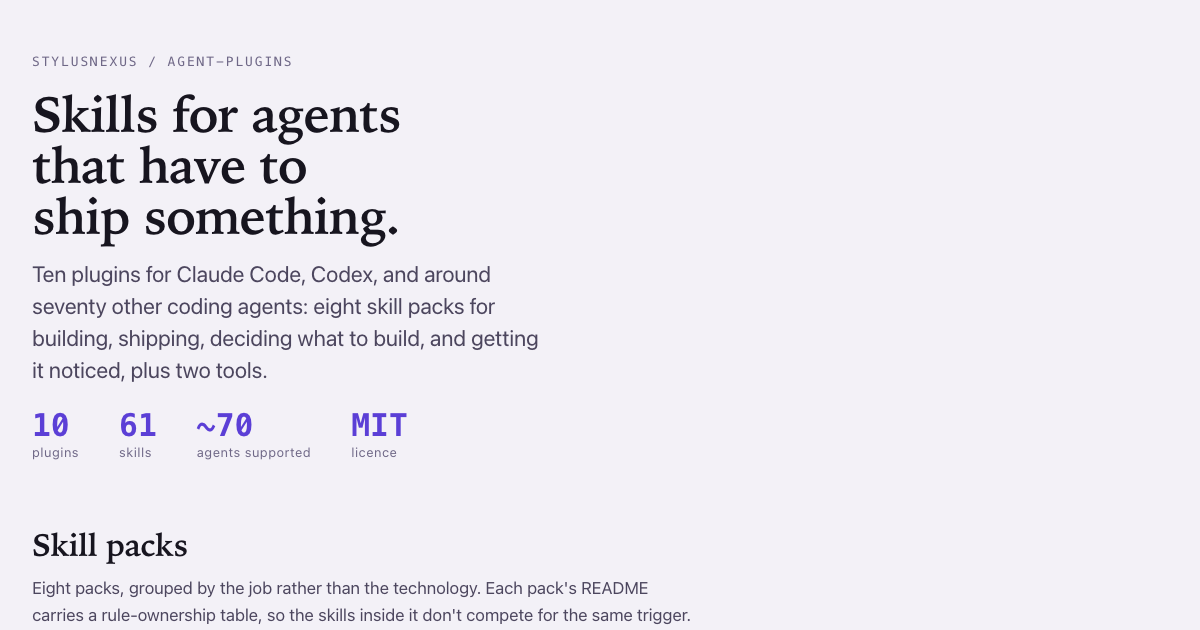
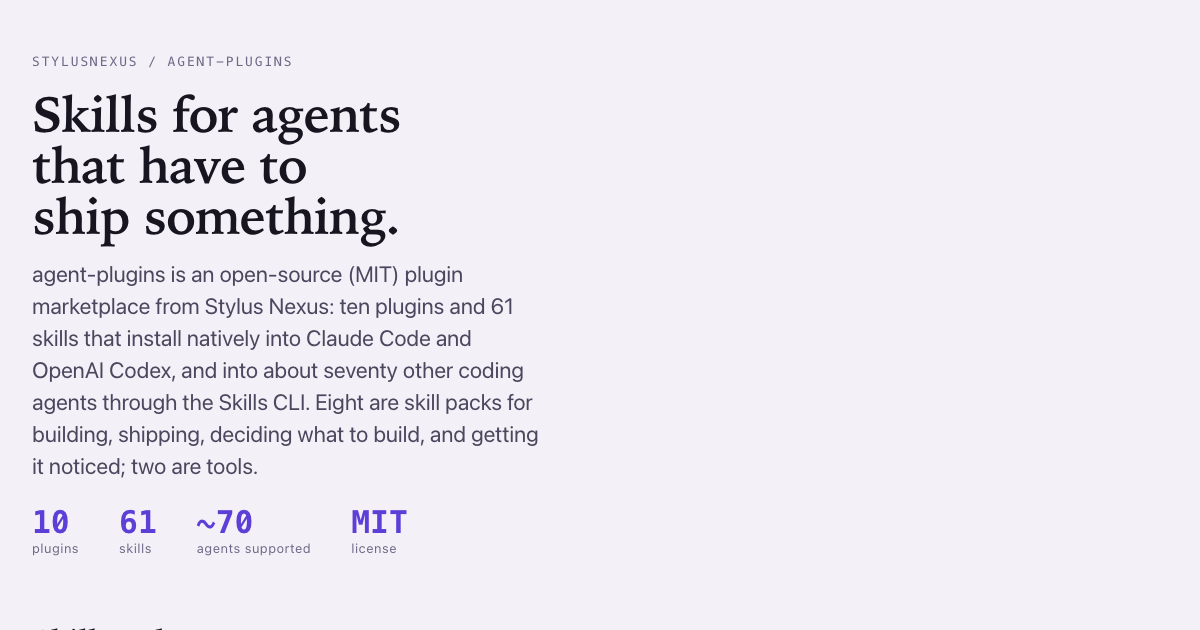
feat(site): apply search and AI-answer review
AI answers quote the first sentence that names a thing, and the page
never named agent-plugins. The lede now does, pack names are linked
headings, install headings are distinct, and a Questions section gives
self-contained answers. JSON-LD lists every pack with breadcrumb and
FAQ entries; llms.txt links each pack README.

The Pages actions move to their current majors. The private-terms
check now also scans the root README and site/ against the private
list, since both are public.

Claude-Session: https://claude.ai/code/session_01FqTSev7LyLprLNwPfVfQA8

Changed region(s): [[0.0308, 0.4222, 0.4625, 0.754], [0.0308, 0.8143, 0.5858, 1.0], [0.2775, 0.7841, 0.3392, 0.8746]]

diff --git a/site/index.html b/site/index.html
@@ -15,30 +15,177 @@
   <meta property="og:image:type" content="image/png">
   <meta property="og:image:width" content="1200">
   <meta property="og:image:height" content="630">
-  <meta property="og:image:alt" content="The agent-plugins catalogue: ten plugins, 61 skills, and cards for each skill pack.">
+  <meta property="og:image:alt" content="The agent-plugins catalogue: skill-pack cards for Claude Code, Codex, and other coding agents.">
   <meta property="og:locale" content="en_US">
   <meta name="twitter:card" content="summary_large_image">
   <meta name="twitter:title" content="Agent Plugins: Skill Packs for Claude Code and Codex">
   <meta name="twitter:description" content="Skill packs for Claude Code, Codex, and about 70 other coding agents: shipping, reviews, hardening, releases, product strategy, and go-to-market. MIT.">
   <meta name="twitter:image" content="https://stylusnexus.github.io/agent-plugins/img/social.png">
-  <meta name="twitter:image:alt" content="The agent-plugins catalogue: ten plugins, 61 skills, and cards for each skill pack.">
+  <meta name="twitter:image:alt" content="The agent-plugins catalogue: skill-pack cards for Claude Code, Codex, and other coding agents.">
+  <meta name="theme-color" content="#f3f1f7" media="(prefers-color-scheme: light)">
+  <meta name="theme-color" content="#100e16" media="(prefers-color-scheme: dark)">
   <link rel="icon" href="https://stylusnexus.github.io/favicon.ico">
   <link rel="apple-touch-icon" href="https://stylusnexus.github.io/apple-touch-icon.png">
   <script type="application/ld+json">
 {
   "@context": "https://schema.org",
-  "@type": "SoftwareSourceCode",
-  "name": "agent-plugins",
-  "url": "https://stylusnexus.github.io/agent-plugins/",
-  "codeRepository": "https://github.com/stylusnexus/agent-plugins",
-  "description": "Skill packs for Claude Code, Codex, and about 70 other coding agents: shipping, reviews, hardening, releases, product strategy, and go-to-market. MIT.",
-  "license": "https://opensource.org/licenses/MIT",
-  "programmingLanguage": "Markdown",
-  "publisher": {
-    "@type": "Organization",
-    "name": "Stylus Nexus",
-    "url": "https://stylusnexus.github.io/"
-  }
+  "@graph": [
+    {
+      "@type": "SoftwareSourceCode",
+      "name": "agent-plugins",
+      "url": "https://stylusnexus.github.io/agent-plugins/",
+      "codeRepository": "https://github.com/stylusnexus/agent-plugins",
+      "description": "Skill packs for Claude Code, Codex, and about 70 other coding agents: shipping, reviews, hardening, releases, product strategy, and go-to-market. MIT.",
+      "license": "https://opensource.org/licenses/MIT",
+      "isAccessibleForFree": true,
+      "keywords": "Claude Code plugins, Codex plugins, agent skills, skill packs, Skills CLI",
+      "sameAs": [
+        "https://www.npmjs.com/package/@stylusnexus/agent-plugins"
+      ],
+      "author": {
+        "@type": "Organization",
+        "name": "Stylus Nexus",
+        "url": "https://stylusnexus.github.io/"
+      },
+      "publisher": {
+        "@type": "Organization",
+        "name": "Stylus Nexus",
+        "url": "https://stylusnexus.github.io/"
+      },
+      "hasPart": {
+        "@type": "ItemList",
+        "name": "Skill packs",
+        "itemListElement": [
+          {
+            "@type": "ListItem",
+            "position": 1,
+            "name": "ship-pipeline",
+            "url": "https://github.com/stylusnexus/agent-plugins/tree/main/plugins/ship-pipeline",
+            "description": "The daily loop: read the issue, ground assumptions in the live database, prove it works, then review, merge, and promote. One issue or a batch."
+          },
+          {
+            "@type": "ListItem",
+            "position": 2,
+            "name": "reporting-comms",
+            "url": "https://github.com/stylusnexus/agent-plugins/tree/main/plugins/reporting-comms",
+            "description": "The last mile: turning agent output into something a person wants to read, and getting their judgment back."
+          },
+          {
+            "@type": "ListItem",
+            "position": 3,
+            "name": "second-opinion",
+            "url": "https://github.com/stylusnexus/agent-plugins/tree/main/plugins/second-opinion",
+            "description": "Built on one premise: a single model's confident answer is not evidence. Councils, arbitration, and specs checked against the actual codebase."
+          },
+          {
+            "@type": "ListItem",
+            "position": 4,
+            "name": "hardening",
+            "url": "https://github.com/stylusnexus/agent-plugins/tree/main/plugins/hardening",
+            "description": "The unglamorous pre-launch gates: a missing rate limit, an unsigned webhook, a compromised transitive dependency."
+          },
+          {
+            "@type": "ListItem",
+            "position": 5,
+            "name": "release-ops",
+            "url": "https://github.com/stylusnexus/agent-plugins/tree/main/plugins/release-ops",
+            "description": "Deciding the version, waiting on CI, publishing, and keeping dependencies current between releases."
+          },
+          {
+            "@type": "ListItem",
+            "position": 6,
+            "name": "codebase-intel",
+            "url": "https://github.com/stylusnexus/agent-plugins/tree/main/plugins/codebase-intel",
+            "description": "Building an accurate picture of a codebase, and the libraries it leans on, before committing to a change."
+          },
+          {
+            "@type": "ListItem",
+            "position": 7,
+            "name": "product-strategy",
+            "url": "https://github.com/stylusnexus/agent-plugins/tree/main/plugins/product-strategy",
+            "description": "Deciding what to build and why: vision, strategy, value, objectives, roadmaps, and discovery. A chief PM that teaches as it goes and labels evidence apart from assumption."
+          },
+          {
+            "@type": "ListItem",
+            "position": 8,
+            "name": "go-to-market",
+            "url": "https://github.com/stylusnexus/agent-plugins/tree/main/plugins/go-to-market",
+            "description": "Getting a product noticed on a small team's hours: positioning, copy, launches, community, outreach, email, and measurement. It drafts; it never posts or sends for you."
+          }
+        ]
+      }
+    },
+    {
+      "@type": "BreadcrumbList",
+      "itemListElement": [
+        {
+          "@type": "ListItem",
+          "position": 1,
+          "name": "Stylus Nexus",
+          "item": "https://stylusnexus.github.io/"
+        },
+        {
+          "@type": "ListItem",
+          "position": 2,
+          "name": "agent-plugins",
+          "item": "https://stylusnexus.github.io/agent-plugins/"
+        }
+      ]
+    },
+    {
+      "@type": "FAQPage",
+      "mainEntity": [
+        {
+          "@type": "Question",
+          "name": "How do I install agent-plugins in Claude Code?",
+          "acceptedAnswer": {
+            "@type": "Answer",
+            "text": "Run /plugin marketplace add stylusnexus/agent-plugins, then /plugin install ship-pipeline@stylus-nexus for each pack you want. Skills then carry the pack name, as in /ship-pipeline:prove-it."
+          }
+        },
+        {
+          "@type": "Question",
+          "name": "How do I install agent-plugins in Codex?",
+          "acceptedAnswer": {
+            "@type": "Answer",
+            "text": "Run codex plugin marketplace add stylusnexus/agent-plugins, then codex plugin add ship-pipeline@stylus-nexus for each pack you want. Invoke a skill with $ship-pipeline:prove-it, or run /skills."
+          }
+        },
+        {
+          "@type": "Question",
+          "name": "How do I install agent-plugins in Cursor, Copilot, or another agent?",
+          "acceptedAnswer": {
+            "@type": "Answer",
+            "text": "Run npx skills add stylusnexus/agent-plugins. The Skills CLI detects which agents you have and writes the skills into each one; add --skill and skill names to take only some."
+          }
+        },
+        {
+          "@type": "Question",
+          "name": "How do I keep agent-plugins up to date?",
+          "acceptedAnswer": {
+            "@type": "Answer",
+            "text": "In Claude Code, enable auto-update for the stylus-nexus marketplace under /plugin, Marketplaces. In Codex, run codex plugin marketplace upgrade stylus-nexus, then add each pack again. With the Skills CLI, run npx skills update."
+          }
+        },
+        {
+          "@type": "Question",
+          "name": "What is ship-pipeline?",
+          "acceptedAnswer": {
+            "@type": "Answer",
+            "text": "ship-pipeline is the agent-plugins skill pack for the daily loop: it reads the issue, grounds assumptions in the live database, proves the change works, then reviews, merges, and promotes it, for one issue or a batch."
+          }
+        },
+        {
+          "@type": "Question",
+          "name": "Why is a skill called /prove-it in one agent and /ship-pipeline:prove-it in another?",
+          "acceptedAnswer": {
+            "@type": "Answer",
+            "text": "Claude Code and Codex plugins prefix skills with the pack name. Skills installed through the Skills CLI or npm have no prefix."
+          }
+        }
+      ]
+    }
+  ]
 }
   </script>
   <style>
@@ -126,7 +273,9 @@
     box-shadow: 0 1px 2px var(--shadow);
   }
   .plugin-top { display: flex; align-items: baseline; justify-content: space-between; gap: 1rem; }
-  .plugin-name { font-family: var(--mono); font-size: 1.03rem; font-weight: 600; letter-spacing: -.01em; }
+  .plugin-name { font-family: var(--mono); font-size: 1.03rem; font-weight: 600; letter-spacing: -.01em; margin: 0; }
+  .plugin-name a { color: inherit; text-decoration: none; }
+  .plugin-name a:hover { text-decoration: underline; }
   .plugin-n {
     font-family: var(--mono); font-size: var(--s--1); color: var(--ink-faint);
     font-variant-numeric: tabular-nums; white-space: nowrap;
@@ -138,11 +287,6 @@
     background: var(--sunk); border-radius: 3px; padding: .15rem .42rem; white-space: nowrap;
   }
   .chip.agent { background: transparent; border: 1px dashed var(--rule); }
-  .new {
-    font-family: var(--mono); font-size: .64rem; letter-spacing: .1em; text-transform: uppercase;
-    color: var(--accent); border: 1px solid currentColor; border-radius: 3px; padding: .05rem .35rem;
-    margin-left: .45rem; vertical-align: .1em;
-  }
 
   .install { display: grid; gap: 1rem; grid-template-columns: repeat(auto-fit, minmax(min(18rem, 100%), 1fr)); }
   .surface {
@@ -181,6 +325,9 @@
   .note strong { font-weight: 650; }
   .note p { font-size: .95rem; color: var(--ink-soft); }
 
+  .faq { display: flex; flex-direction: column; gap: 1.1rem; max-width: 68ch; }
+  .qa h3 { font-family: var(--sans); font-size: 1rem; font-weight: 650; margin: 0 0 .25rem; }
+  .qa p { color: var(--ink-soft); font-size: .95rem; }
   footer {
     border-top: 1px solid var(--rule); padding-top: 1.1rem;
     font-family: var(--mono); font-size: var(--s--1); color: var(--ink-faint);
@@ -197,14 +344,16 @@
     <div class="eyebrow">stylusnexus / agent-plugins</div>
     <h1>Skills for agents that have to ship something.</h1>
     <p class="lede">
-      Ten plugins for Claude Code, Codex, and around seventy other coding agents: eight skill packs
-      for building, shipping, deciding what to build, and getting it noticed, plus two tools.
+      agent-plugins is an open-source (MIT) plugin marketplace from Stylus Nexus: ten plugins and 61
+      skills that install natively into Claude Code and OpenAI Codex, and into about seventy other
+      coding agents through the Skills CLI. Eight are skill packs for building, shipping, deciding what
+      to build, and getting it noticed; two are tools.
     </p>
     <div class="counts">
       <div class="count"><b>10</b><span>plugins</span></div>
       <div class="count"><b>61</b><span>skills</span></div>
       <div class="count"><b>~70</b><span>agents supported</span></div>
-      <div class="count"><b>MIT</b><span>licence</span></div>
+      <div class="count"><b>MIT</b><span>license</span></div>
     </div>
   </header>
 
@@ -220,7 +369,7 @@
 
     <div class="grid">
       <article class="plugin">
-        <div class="plugin-top"><span class="plugin-name">ship-pipeline</span><span class="plugin-n">9 skills</span></div>
+        <div class="plugin-top"><h3 class="plugin-name"><a href="https://github.com/stylusnexus/agent-plugins/tree/main/plugins/ship-pipeline">ship-pipeline</a></h3><span class="plugin-n">9 skills</span></div>
         <p>The daily loop: read the issue, ground assumptions in the live database, prove it works, then review, merge, and promote. One issue or a batch.</p>
         <div class="chips">
           <span class="chip">start-issue</span><span class="chip">db-truth</span><span class="chip">prove-it</span>
@@ -230,7 +379,7 @@
       </article>
 
       <article class="plugin">
-        <div class="plugin-top"><span class="plugin-name">reporting-comms</span><span class="plugin-n">7 skills</span></div>
+        <div class="plugin-top"><h3 class="plugin-name"><a href="https://github.com/stylusnexus/agent-plugins/tree/main/plugins/reporting-comms">reporting-comms</a></h3><span class="plugin-n">7 skills</span></div>
         <p>The last mile: turning agent output into something a person wants to read, and getting their judgment back.</p>
         <div class="chips">
           <span class="chip">html</span><span class="chip">visual-plan</span><span class="chip">visual-recap</span>
@@ -240,7 +389,7 @@
       </article>
 
       <article class="plugin">
-        <div class="plugin-top"><span class="plugin-name">second-opinion</span><span class="plugin-n">5 skills</span></div>
+        <div class="plugin-top"><h3 class="plugin-name"><a href="https://github.com/stylusnexus/agent-plugins/tree/main/plugins/second-opinion">second-opinion</a></h3><span class="plugin-n">5 skills</span></div>
         <p>Built on one premise: a single model's confident answer is not evidence. Councils, arbitration, and specs checked against the actual codebase.</p>
         <div class="chips">
           <span class="chip">llm-council</span><span class="chip">plan-arbiter</span><span class="chip">spec-review</span>
@@ -249,7 +398,7 @@
       </article>
 
       <article class="plugin">
-        <div class="plugin-top"><span class="plugin-name">hardening</span><span class="plugin-n">5 skills</span></div>
+        <div class="plugin-top"><h3 class="plugin-name"><a href="https://github.com/stylusnexus/agent-plugins/tree/main/plugins/hardening">hardening</a></h3><span class="plugin-n">5 skills</span></div>
         <p>The unglamorous pre-launch gates: a missing rate limit, an unsigned webhook, a compromised transitive dependency.</p>
         <div class="chips">
           <span class="chip">rate-limit-audit</span><span class="chip">exposure-scan</span><span class="chip">auth-hardening</span>
@@ -258,7 +407,7 @@
       </article>
 
       <article class="plugin">
-        <div class="plugin-top"><span class="plugin-name">release-ops</span><span class="plugin-n">5 skills</span></div>
+        <div class="plugin-top"><h3 class="plugin-name"><a href="https://github.com/stylusnexus/agent-plugins/tree/main/plugins/release-ops">release-ops</a></h3><span class="plugin-n">5 skills</span></div>
         <p>Deciding the version, waiting on CI, publishing, and keeping dependencies current between releases.</p>
         <div class="chips">
           <span class="chip">version-check</span><span class="chip">pr-wait</span><span class="chip">the-waiting</span>
@@ -267,7 +416,7 @@
       </article>
 
       <article class="plugin">
-        <div class="plugin-top"><span class="plugin-name">codebase-intel</span><span class="plugin-n">4 skills</span></div>
+        <div class="plugin-top"><h3 class="plugin-name"><a href="https://github.com/stylusnexus/agent-plugins/tree/main/plugins/codebase-intel">codebase-intel</a></h3><span class="plugin-n">4 skills</span></div>
         <p>Building an accurate picture of a codebase, and the libraries it leans on, before committing to a change.</p>
         <div class="chips">
           <span class="chip">codebase-health</span><span class="chip">codebase-architecture-scanner</span>
@@ -276,7 +425,7 @@
       </article>
 
       <article class="plugin">
-        <div class="plugin-top"><span class="plugin-name">product-strategy<span class="new">new</span></span><span class="plugin-n">14 skills · 2 agents</span></div>
+        <div class="plugin-top"><h3 class="plugin-name"><a href="https://github.com/stylusnexus/agent-plugins/tree/main/plugins/product-strategy">product-strategy</a></h3><span class="plugin-n">14 skills · 2 agents</span></div>
         <p>Deciding what to build and why: vision, strategy, value, objectives, roadmaps, and discovery. A chief PM that teaches as it goes and labels evidence apart from assumption.</p>
         <div class="chips">
           <span class="chip">product-manager</span><span class="chip">pm-vision</span><span class="chip">pm-strategy</span>
@@ -289,7 +438,7 @@
       </article>
 
       <article class="plugin">
-        <div class="plugin-top"><span class="plugin-name">go-to-market<span class="new">new</span></span><span class="plugin-n">12 skills · 2 agents</span></div>
+        <div class="plugin-top"><h3 class="plugin-name"><a href="https://github.com/stylusnexus/agent-plugins/tree/main/plugins/go-to-market">go-to-market</a></h3><span class="plugin-n">12 skills · 2 agents</span></div>
         <p>Getting a product noticed on a small team's hours: positioning, copy, launches, community, outreach, email, and measurement. It drafts; it never posts or sends for you.</p>
         <div class="chips">
           <span class="chip">marketing-lead</span><span class="chip">mk-positioning</span><span class="chip">mk-audience</span>
@@ -312,11 +461,11 @@
     </div>
     <div class="grid">
       <article class="plugin">
-        <div class="plugin-top"><span class="plugin-name">work-plan</span><span class="plugin-n">CLI + viewer</span></div>
+        <div class="plugin-top"><h3 class="plugin-name"><a href="https://github.com/stylusnexus/work-plan-toolkit">work-plan</a></h3><span class="plugin-n">CLI + viewer</span></div>
         <p>Track-aware daily planning over GitHub issues: shared tracks, AI clustering, coverage, and dependency-aware next-up. Pure-stdlib Python CLI plus an accessible VS Code viewer with a repo-qualified dependency graph.</p>
       </article>
       <article class="plugin">
-        <div class="plugin-top"><span class="plugin-name">defect-scan</span><span class="plugin-n">15 languages</span></div>
+        <div class="plugin-top"><h3 class="plugin-name"><a href="https://github.com/stylusnexus/defect-scan">defect-scan</a></h3><span class="plugin-n">15 languages</span></div>
         <p>Language-aware defect hunter. Detects the stack, triages files by risk, runs the real analyzers (ruff, mypy, tsc, eslint, rubocop, brakeman), then reports findings in confidence tiers, correlated against existing issues.</p>
       </article>
     </div>
@@ -325,12 +474,12 @@
   <section>
     <div>
       <h2>Installing</h2>
-      <p class="sub">Add the marketplace once, then take whichever packs you want.</p>
+      <p class="sub">Add the marketplace once, then take whichever packs you want. Plugins run code on your machine, so review a plugin's source before installing it.</p>
     </div>
     <div class="install">
       <div class="surface">
         <span class="badge b-claude">Claude Code</span>
-        <h3>Plugin marketplace</h3>
+        <h3>Install in Claude Code</h3>
         <p class="who">Terminal, VS Code, and JetBrains extensions share one config, so one install covers all three.</p>
 <pre>/plugin marketplace add stylusnexus/agent-plugins
 /plugin install ship-pipeline@stylus-nexus</pre>
@@ -339,16 +488,16 @@
 
       <div class="surface">
         <span class="badge b-codex">Codex</span>
-        <h3>Plugin marketplace</h3>
+        <h3>Install in Codex</h3>
         <p class="who">CLI, app, and IDE extension. Codex reads its own index, so the same marketplace works unchanged.</p>
 <pre>codex plugin marketplace add stylusnexus/agent-plugins
 codex plugin add ship-pipeline@stylus-nexus</pre>
-        <p class="who">Type <code>$ship-pipeline:prove-it</code> or run <code>/skills</code>. To update, run <code>codex plugin marketplace upgrade stylus-nexus</code>, then the add command again.</p>
+        <p class="who">Type <code>$ship-pipeline:prove-it</code> or run <code>/skills</code>. In the ChatGPT app, type <code>@</code>. To update, run <code>codex plugin marketplace upgrade stylus-nexus</code>, then the add command again.</p>
       </div>
 
       <div class="surface">
         <span class="badge b-any">~70 more</span>
-        <h3>Skills CLI</h3>
+        <h3>Install in Cursor, Copilot, Gemini CLI and more</h3>
         <p class="who">Cursor, Copilot, Gemini CLI, Windsurf, Zed, opencode, Cline, Continue, Hermes, Goose, Warp, Aider and more. Detects which agents you already have.</p>
 <pre>npx skills add stylusnexus/agent-plugins
 npx skills add stylusnexus/agent-plugins --skill prove-it deploy</pre>
@@ -379,6 +528,18 @@ npx skills add stylusnexus/agent-plugins --skill prove-it deploy</pre>
         view: evidence before "done", detect rather than assume, one rule per owner. Each README states
         the opinion plainly, so you can tell quickly whether it fits how you work.
       </p>
+    </div>
+  </section>
+
+  <section>
+    <div><h2>Questions</h2></div>
+    <div class="faq">
+      <div class="qa"><h3>How do I install agent-plugins in Claude Code?</h3><p>Run <code>/plugin marketplace add stylusnexus/agent-plugins</code>, then <code>/plugin install ship-pipeline@stylus-nexus</code> for each pack you want. Skills then carry the pack name, as in <code>/ship-pipeline:prove-it</code>.</p></div>
+      <div class="qa"><h3>How do I install agent-plugins in Codex?</h3><p>Run <code>codex plugin marketplace add stylusnexus/agent-plugins</code>, then <code>codex plugin add ship-pipeline@stylus-nexus</code> for each pack you want. Invoke a skill with <code>$ship-pipeline:prove-it</code>, or run <code>/skills</code>.</p></div>
+      <div class="qa"><h3>How do I install agent-plugins in Cursor, Copilot, or another agent?</h3><p>Run <code>npx skills add stylusnexus/agent-plugins</code>. The Skills CLI detects which agents you have and writes the skills into each one; add <code>--skill</code> and skill names to take only some.</p></div>
+      <div class="qa"><h3>How do I keep agent-plugins up to date?</h3><p>In Claude Code, enable auto-update for the stylus-nexus marketplace under <code>/plugin</code>, Marketplaces. In Codex, run <code>codex plugin marketplace upgrade stylus-nexus</code>, then add each pack again. With the Skills CLI, run <code>npx skills update</code>.</p></div>
+      <div class="qa"><h3>What is ship-pipeline?</h3><p>ship-pipeline is the agent-plugins skill pack for the daily loop: it reads the issue, grounds assumptions in the live database, proves the change works, then reviews, merges, and promotes it, for one issue or a batch.</p></div>
+      <div class="qa"><h3>Why is a skill called /prove-it in one agent and /ship-pipeline:prove-it in another?</h3><p>Claude Code and Codex plugins prefix skills with the pack name. Skills installed through the Skills CLI or npm have no prefix.</p></div>
     </div>
   </section>
 

diff --git a/scripts/check-readme.py b/scripts/check-readme.py
@@ -232,7 +232,7 @@ def check_site():
         html = fh.read()
     cards = {}
     for art in re.findall(r'<article class="plugin">(.*?)</article>', html, re.S):
-        m = re.search(r'<span class="plugin-name">([a-z0-9-]+)', art)
+        m = re.search(r'class="plugin-name">(?:<a [^>]*>)?([a-z0-9-]+)', art)
         if m:
             cards[m.group(1)] = art
     total = 0
